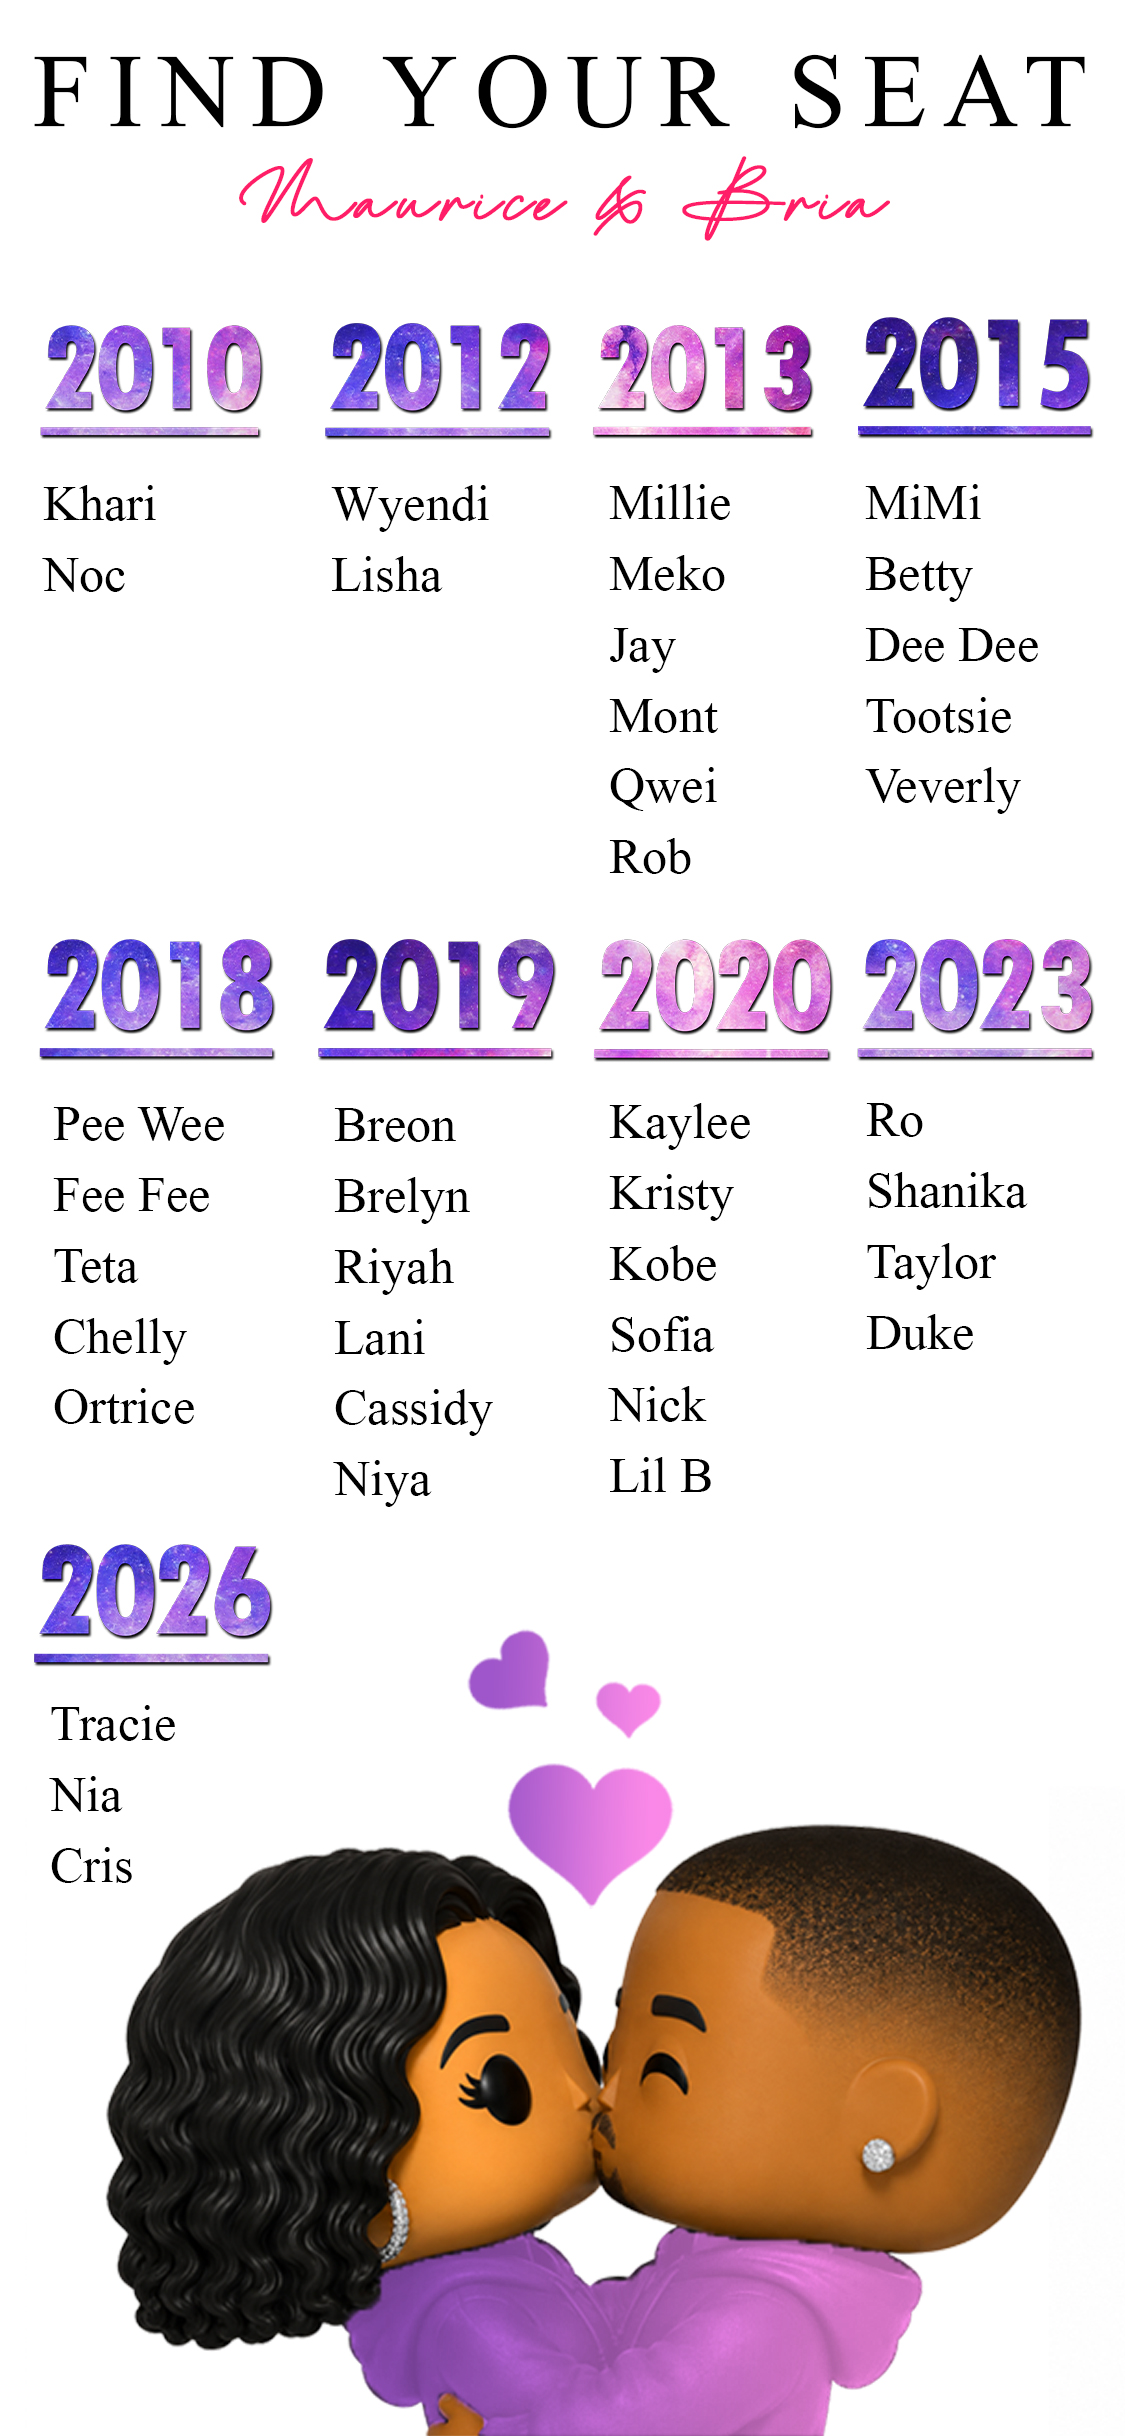
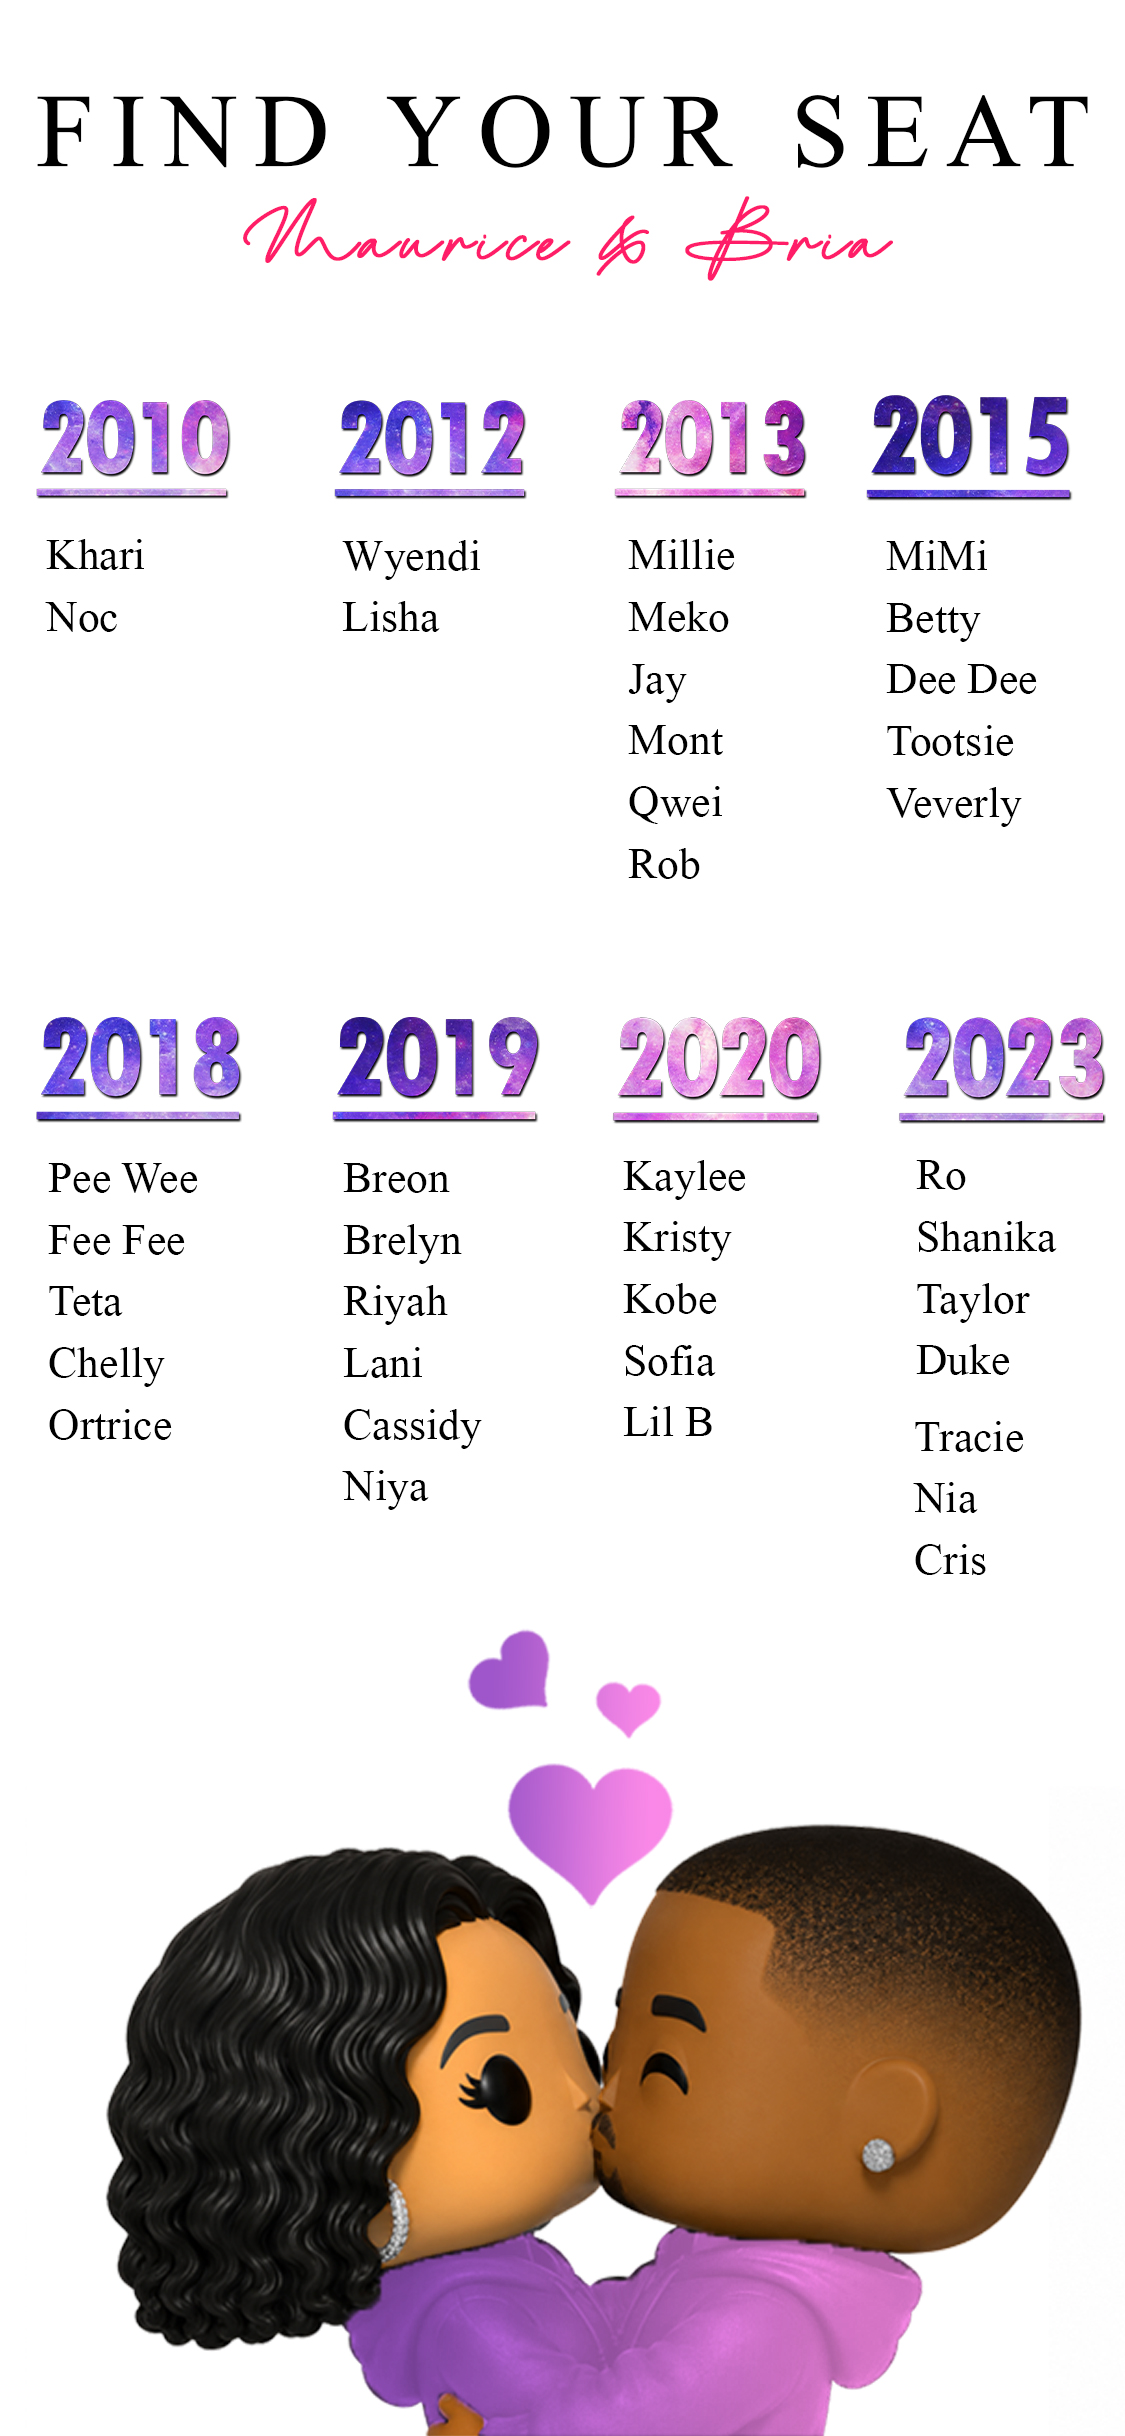
Update project

diff --git a/css/menu.css b/css/menu.css
@@ -9,21 +9,19 @@
    MENU BANNER
 ========================= */
 
-.menu-hero{
-  width:100%;
-  margin-bottom:30px;
+.menu-hero {
+  width: 100%;
+  margin: 0 0 30px 0;
+  padding: 0;
+  overflow: hidden;
 }
 
-.menu-banner{
-  display:block;
-
-  width:100%;
-  height:auto;
-
-  max-height:500px;
-  object-fit:contain;
+.menu-banner {
+  display: block;
+  width: 100%;
+  height: auto;
+  max-width: 100%;
 }
-
 
 body {
   font-family: system-ui, -apple-system, Segoe UI, Roboto, sans-serif;
@@ -134,25 +132,10 @@ body {
     font-size: 2rem;
   }
 
-  .menu-hero {
-  position: relative;
-
-  /* responsive perfect sizing */
-  min-height: 200px;
-  height: clamp(200px, 25vh, 220px);
-
-  display: flex;
-  align-items: center;
-  justify-content: center;
-  text-align: center;
-
-  padding: 100px 10px 20px;
-
-}
-
   .nav-links {
     gap: 12px;
     flex-wrap: wrap;
     justify-content: center;
   }
+
 }
